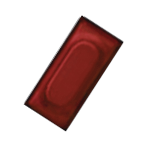
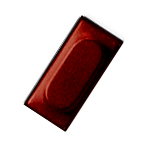
Original artwork for the knobs and buttons, CC BY 4.0 license for the skin art
The small knob, the black buttons (wide, tall, tilted) and the red held
buttons are redrawn from my own photographs of real hardware, replacing
the few pictures that were based on other skins. Every image in
app/gui/skin is now original work, published under CC BY 4.0 (see
app/gui/skin/LICENSE.md); the code stays GPLv3.

Same file names, frame sizes and knob travel, so no code changes.

Changed region(s): [[0.1622, 0.0811, 0.8378, 0.8919]]

diff --git a/CHANGELOG.md b/CHANGELOG.md
@@ -7,6 +7,15 @@ Older entries cite their commit by hand.
 
 ## 2026-10-06
 
+- [Change] **Original artwork for the knobs and buttons, and a license for the skin art (Mike
+  Fiction).** The small knob, the black buttons (wide, tall, tilted) and the red held buttons are
+  redrawn from Mike's own photographs of real hardware, replacing the few pictures that were based
+  on other skins, so every image in `app/gui/skin` is now Mike's original work. The new
+  `app/gui/skin/LICENSE.md` publishes that artwork under CC BY 4.0 (credit: Mike Fiction); the code
+  stays GPLv3. Same file names, frame sizes and knob travel (−120° to +120° over 128 frames), so no
+  code changes. Checked on Windows: everything builds, the nine `g1` tests pass, and the panel shows
+  the new art in the standalone and the VST3.
+
 - [Imp] **Mike Fiction's panel skin merged with the direct link (Claude, requested by Javier).**
   Mike's `panel-skin` branch and the direct link (#8) both added a PC Port talker beside the editor's
   (the synth settings and the link): the runner and `EmuHost` now take both, and an editor's bytes

diff --git a/app/gui/skin/LICENSE.md b/app/gui/skin/LICENSE.md
@@ -1,0 +1,21 @@
+# G1-Emu panel skin artwork
+
+Copyright © 2026 Mike Fiction
+
+All images in this folder are original work by Mike Fiction and are licensed under the
+Creative Commons Attribution 4.0 International License (CC BY 4.0):
+https://creativecommons.org/licenses/by/4.0/
+
+You may share and adapt this artwork for any purpose, including commercially, as long as you:
+
+- credit **Mike Fiction** as the author,
+- link to the license above, and
+- indicate if you made changes.
+
+Skins derived from this artwork should keep this notice, or a credit line such as:
+
+> Based on the G1-Emu panel skin by Mike Fiction, licensed CC BY 4.0.
+
+This license covers the artwork in this folder only. The G1-Emu source code is licensed
+separately under the GNU General Public License v3 (see the LICENSE file at the root of the
+repository).
